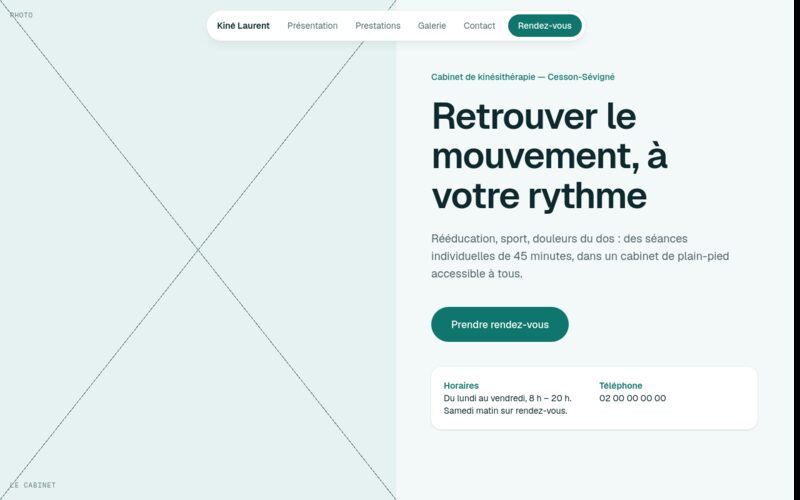
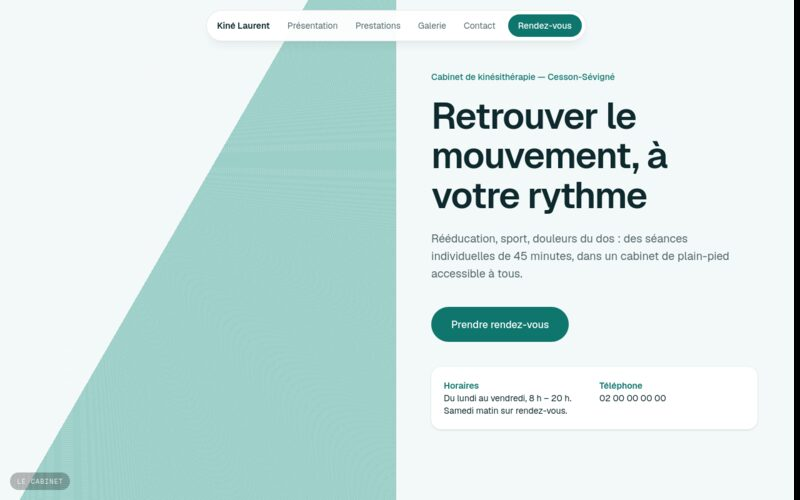
Exemples : visuels d'ambiance à la place des croix de maquette, prix sur les prestations (vides par défaut sur les sites clients)

diff --git a/src/components/templates/TemplateSite.tsx b/src/components/templates/TemplateSite.tsx
@@ -10,15 +10,19 @@ type Props = {
   content: SiteContent;
   /** Site en ligne : les cadres sans photo restent neutres, sans légende de maquette. */
   bare?: boolean;
+  /** Page d'exemple : les cadres vides reçoivent un visuel d'ambiance au lieu de la croix de maquette. */
+  demo?: boolean;
 };
 
 /** Rend un site client à partir d'un modèle et de son contenu. */
-export default function TemplateSite({ template, content, bare = false }: Props) {
+export default function TemplateSite({ template, content, bare = false, demo = false }: Props) {
   const Layout = { aurore: Aurore, monolithe: Monolithe, pulse: Pulse, atelier: Atelier, cabinet: Cabinet, clarte: Clarte, ligne: Ligne }[template.id];
   return (
     <>
       <ScrollFX />
-      <Layout template={template} content={content} bare={bare} />
+      <div className={demo ? "demo-visuals" : undefined} data-demo={demo ? template.id : undefined}>
+        <Layout template={template} content={content} bare={bare} />
+      </div>
       <MobileActions c={content} />
     </>
   );
@@ -62,9 +66,9 @@ const gallery: PhotoKey[] = ["photo1", "photo2", "photo3"];
 
 function services(c: SiteContent) {
   return [
-    { title: c.s1Title, text: c.s1Text },
-    { title: c.s2Title, text: c.s2Text },
-    { title: c.s3Title, text: c.s3Text },
+    { title: c.s1Title, text: c.s1Text, price: c.s1Price },
+    { title: c.s2Title, text: c.s2Text, price: c.s2Price },
+    { title: c.s3Title, text: c.s3Text, price: c.s3Price },
   ];
 }
 
@@ -209,6 +213,7 @@ function Aurore({ template, content: c, bare }: Props) {
                 <span className="serif text-3xl italic text-[#ffd27a]">0{i + 1}</span>
                 <h3 className="serif text-4xl italic md:text-6xl">{s.title}</h3>
                 <p className="text-lg text-[#fff1dc]/75">{s.text}</p>
+                {s.price && <p className="mt-5 w-fit whitespace-nowrap rounded-full border border-current/25 px-3 py-1 text-sm font-semibold">{s.price}</p>}
               </article>
             ))}
           </div>
@@ -329,6 +334,7 @@ function Monolithe({ template, content: c, bare }: Props) {
                 <span className="text-sm text-[#ff5a1f]">0{i + 1}</span>
                 <h3 className="text-4xl font-black uppercase tracking-tighter md:col-span-2 md:text-5xl">{s.title}</h3>
                 <p className="self-end text-lg md:col-span-3">{s.text}</p>
+                {s.price && <p className="mt-5 w-fit whitespace-nowrap rounded-full border border-current/25 px-3 py-1 text-sm font-semibold">{s.price}</p>}
               </article>
             ))}
           </div>
@@ -460,6 +466,7 @@ function Pulse({ template, content: c, bare }: Props) {
                 <span className="text-sm font-medium text-[#ff3df2]">0{i + 1}</span>
                 <h3 className="mt-14 text-4xl font-black uppercase italic tracking-tighter text-[#c8ff4d]">{s.title}</h3>
                 <p className="mt-3 text-white/70">{s.text}</p>
+                {s.price && <p className="mt-5 w-fit whitespace-nowrap rounded-full border border-current/25 px-3 py-1 text-sm font-semibold">{s.price}</p>}
               </article>
             ))}
           </div>
@@ -567,6 +574,7 @@ function Atelier({ template, content: c, bare }: Props) {
                 <span className="serif text-4xl text-[#c98a9a]">{i + 1}.</span>
                 <h3 className="serif mt-8 text-4xl">{s.title}</h3>
                 <p className="mt-3 text-[#2a2420]/70">{s.text}</p>
+                {s.price && <p className="mt-5 w-fit whitespace-nowrap rounded-full border border-current/25 px-3 py-1 text-sm font-semibold">{s.price}</p>}
               </article>
             ))}
           </div>
@@ -674,6 +682,7 @@ function Cabinet({ template, content: c, bare }: Props) {
                 <span className="serif text-3xl text-[#b08d57]">{["I", "II", "III"][i]}.</span>
                 <h3 className="serif text-3xl">{s.title}</h3>
                 <p className="text-[#14213d]/75">{s.text}</p>
+                {s.price && <p className="mt-5 w-fit whitespace-nowrap rounded-full border border-current/25 px-3 py-1 text-sm font-semibold">{s.price}</p>}
               </li>
             ))}
           </ol>
@@ -735,7 +744,11 @@ function Clarte({ template, content: c, bare }: Props) {
 
       <main>
         <section className="grid min-h-dvh md:grid-cols-2">
-          <Photo src={c.photoHero} label={L.photoHero} bare={bare} className="min-h-[50vh] md:min-h-full" />
+          <div className="relative min-h-[50vh]">
+            <div className="absolute inset-0">
+              <Photo src={c.photoHero} label={L.photoHero} bare={bare} className="size-full" />
+            </div>
+          </div>
           <div className="flex flex-col justify-center bg-[#f3f8f8] px-6 py-24 md:px-14">
             <p className="rise text-sm font-medium text-[#0f766e]">{c.kicker}</p>
             <h1 className="rise rise-1 mt-5 text-[clamp(2.4rem,4.6vw,4rem)] font-semibold leading-[1.08] tracking-tight">{c.heroTitle}</h1>
@@ -769,6 +782,7 @@ function Clarte({ template, content: c, bare }: Props) {
                 <span className="grid size-11 place-items-center rounded-2xl bg-white font-semibold text-[#0f766e] shadow-sm">{i + 1}</span>
                 <h3 className="mt-6 text-2xl font-semibold">{s.title}</h3>
                 <p className="mt-2 text-[#0f2a2e]/70">{s.text}</p>
+                {s.price && <p className="mt-5 w-fit whitespace-nowrap rounded-full border border-current/25 px-3 py-1 text-sm font-semibold">{s.price}</p>}
               </article>
             ))}
           </div>
@@ -877,6 +891,7 @@ function Ligne({ template, content: c, bare }: Props) {
                 <span className="text-xs uppercase tracking-[0.3em] text-[#8a8a8a]">0{i + 1}</span>
                 <h3 className="mt-6 text-3xl font-medium tracking-tight">{s.title}</h3>
                 <p className="mt-3 text-[#111]/70">{s.text}</p>
+                {s.price && <p className="mt-5 w-fit whitespace-nowrap rounded-full border border-current/25 px-3 py-1 text-sm font-semibold">{s.price}</p>}
               </article>
             ))}
           </div>

diff --git a/src/lib/templates.ts b/src/lib/templates.ts
@@ -15,6 +15,10 @@ export type SiteContent = {
   s2Text: string;
   s3Title: string;
   s3Text: string;
+  /** Prix ou tarif indicatif de chaque prestation (« dès 25 € », « sur devis »…) ; vide : non affiché. */
+  s1Price: string;
+  s2Price: string;
+  s3Price: string;
   quote: string;
   quoteAuthor: string;
   email: string;
@@ -44,6 +48,9 @@ export const contentFields: { key: keyof SiteContent; label: string; group: stri
   { key: "s2Text", label: "Bloc 2 — texte", group: "Prestations", long: true, max: 300 },
   { key: "s3Title", label: "Bloc 3 — titre", group: "Prestations", max: 60 },
   { key: "s3Text", label: "Bloc 3 — texte", group: "Prestations", long: true, max: 300 },
+  { key: "s1Price", label: "Bloc 1 — prix", group: "Prestations", max: 40 },
+  { key: "s2Price", label: "Bloc 2 — prix", group: "Prestations", max: 40 },
+  { key: "s3Price", label: "Bloc 3 — prix", group: "Prestations", max: 40 },
   { key: "quote", label: "Citation / avis", group: "Témoignage", long: true, max: 300 },
   { key: "quoteAuthor", label: "Auteur de la citation", group: "Témoignage", max: 80 },
   { key: "email", label: "E-mail de contact", group: "Contact", max: 120 },
@@ -114,6 +121,9 @@ export const templates: TemplateDef[] = [
       s2Text: "Cinq temps autour de la braise, avec un accord de vins nature.",
       s3Title: "La table d'hôtes",
       s3Text: "Douze couverts face à la cuisine, pour vos soirées privées.",
+      s1Price: "Menu 32 €",
+      s2Price: "Menu 68 €",
+      s3Price: "Sur réservation",
       quote: "On vient pour le feu. On revient pour le silence qui suit la première bouchée.",
       quoteAuthor: "Un habitué",
       email: "bonjour@maison-aurore.example",
@@ -150,6 +160,9 @@ export const templates: TemplateDef[] = [
       s2Text: "Diagnostic, isolation, redistribution des volumes.",
       s3Title: "Suivi de chantier",
       s3Text: "Un seul interlocuteur, du premier coup de pioche à la remise des clés.",
+      s1Price: "Sur devis",
+      s2Price: "Sur devis",
+      s3Price: "Visite offerte",
       quote: "Ils ont enlevé tout ce qui était en trop. Il est resté notre maison.",
       quoteAuthor: "Claire et Julien, Annecy",
       email: "contact@atelier-monolithe.example",
@@ -185,6 +198,9 @@ export const templates: TemplateDef[] = [
       s2Text: "Fractionné et endurance, en salle ou en extérieur.",
       s3Title: "Nutrition",
       s3Text: "Des repères simples, adaptés à votre quotidien.",
+      s1Price: "Dès 15 € la séance",
+      s2Price: "Dès 59 € / mois",
+      s3Price: "Essai offert",
       quote: "Huit kilos en moins, et surtout l'envie d'y retourner.",
       quoteAuthor: "Mehdi, 34 ans",
       email: "go@pulse-coaching.example",
@@ -221,6 +237,9 @@ export const templates: TemplateDef[] = [
       s2Text: "Initiation au tour, le samedi, par groupes de quatre.",
       s3Title: "Sur commande",
       s3Text: "Services complets pour restaurants et listes de mariage.",
+      s1Price: "Dès 18 €",
+      s2Price: "Dès 35 €",
+      s3Price: "Sur devis",
       quote: "Mon café du matin n'a plus le même goût. Vraiment.",
       quoteAuthor: "Lucie, cliente depuis 2022",
       email: "bonjour@atelier-nacre.example",
@@ -256,6 +275,9 @@ export const templates: TemplateDef[] = [
       s2Text: "Recouvrement, litiges avec un fournisseur ou un client : négociation d'abord, tribunal si nécessaire.",
       s3Title: "Droit social",
       s3Text: "Embauche, rupture, contrôle : sécurisez vos décisions avant de les prendre.",
+      s1Price: "Forfait dès 450 €",
+      s2Price: "Honoraires annoncés",
+      s3Price: "1re consultation 90 €",
       quote: "Des réponses claires, des délais tenus. Exactement ce qu'on attend d'un avocat.",
       quoteAuthor: "Dirigeante d'une PME de 40 salariés",
       email: "contact@cabinet-delorme.example",
@@ -291,6 +313,9 @@ export const templates: TemplateDef[] = [
       s2Text: "Prévention des blessures, reprise après une pause, préparation d'une compétition.",
       s3Title: "Dos et posture",
       s3Text: "Lombalgies, cervicalgies, travail de bureau : soulager et prévenir.",
+      s1Price: "Remboursé",
+      s2Price: "Dès 25 €",
+      s3Price: "Dès 25 €",
       quote: "Un suivi sérieux et des explications à chaque séance. Je sais enfin ce que je fais et pourquoi.",
       quoteAuthor: "Une patiente",
       email: "cabinet@kine-laurent.example",
@@ -326,6 +351,9 @@ export const templates: TemplateDef[] = [
       s2Text: "Coordination des artisans et suivi du chantier jusqu'à la remise des clés.",
       s3Title: "Conseil",
       s3Text: "Une visite de deux heures pour repenser une pièce, avec un plan d'action écrit.",
+      s1Price: "Dès 1 500 €",
+      s2Price: "Sur devis",
+      s3Price: "Visite 180 €",
       quote: "Ils ont compris en une visite ce que nous cherchions depuis des mois.",
       quoteAuthor: "Claire et Thomas, rénovation d'une longère",
       email: "bonjour@studio-morel.example",
@@ -349,6 +377,8 @@ export function getTemplate(id: string | null | undefined): TemplateDef | undefi
 }
 
 /** Fusionne un contenu partiel (JSON stocké) avec les valeurs par défaut du modèle. */
+const PRICE_KEYS = ["s1Price", "s2Price", "s3Price"] as const;
+
 export function resolveContent(template: TemplateDef, raw: string | Partial<SiteContent> | null): SiteContent {
   let parsed: Partial<SiteContent> = {};
   if (typeof raw === "string") {
@@ -361,6 +391,8 @@ export function resolveContent(template: TemplateDef, raw: string | Partial<Site
     parsed = raw;
   }
   const out = { ...template.content };
+  // Les prix des exemples ne doivent jamais apparaître sur le site d'un client : vides tant qu'il ne les a pas saisis.
+  for (const k of PRICE_KEYS) out[k] = "";
   for (const f of contentFields) {
     const v = parsed[f.key];
     if (typeof v === "string") out[f.key] = v.slice(0, f.max);

diff --git a/src/app/globals.css b/src/app/globals.css
@@ -643,3 +643,66 @@ html[data-mail-selecting] .mail-check { opacity: 1; }
   border: 1px solid color-mix(in srgb, var(--h) 32%, transparent);
 }
 .dot-h { width: 0.55rem; height: 0.55rem; border-radius: 50%; background: var(--h); flex-shrink: 0; }
+
+/* Pages d'exemple : visuels d'ambiance à la place des croix de maquette (trois variantes par exemple). */
+.demo-visuals .photo-empty {
+  opacity: 1;
+  color: rgb(255 255 255 / 0.85);
+  justify-content: flex-end;
+  background-image: var(--demo-0);
+  background-size: cover;
+}
+.demo-visuals .photo-empty[data-variant="1"] { background-image: var(--demo-1); }
+.demo-visuals .photo-empty[data-variant="2"] { background-image: var(--demo-2); }
+.demo-visuals .photo-empty > span:first-child { display: none; }
+.demo-visuals .photo-empty > span:last-child {
+  align-self: flex-start;
+  border-radius: 999px;
+  padding: 0.35rem 0.7rem;
+  background: rgb(0 0 0 / 0.28);
+  backdrop-filter: blur(6px);
+}
+.demo-visuals .photo-empty::after {
+  content: "";
+  position: absolute;
+  inset: 0;
+  pointer-events: none;
+  opacity: 0.18;
+  mix-blend-mode: overlay;
+  background-image: repeating-radial-gradient(circle at 17% 32%, #fff 0 0.6px, transparent 0.6px 3px);
+}
+[data-demo="aurore"] {
+  --demo-0: radial-gradient(circle at 30% 75%, #ff9b54 0, #b4481a 28%, transparent 55%), radial-gradient(circle at 75% 20%, #ffd27a80 0, transparent 40%), linear-gradient(160deg, #3a1d0e, #140a06);
+  --demo-1: radial-gradient(ellipse at 50% 110%, #ffd27a 0, #c2541c 30%, transparent 65%), linear-gradient(180deg, #24120a, #4a2412);
+  --demo-2: radial-gradient(circle at 70% 60%, #e8a15a 0, transparent 45%), radial-gradient(circle at 20% 20%, #7a2e10 0, transparent 50%), linear-gradient(120deg, #1c0b04, #3d1d0c);
+}
+[data-demo="monolithe"] {
+  --demo-0: linear-gradient(115deg, transparent 48%, #ff5a1f 48% 52%, transparent 52%), linear-gradient(160deg, #cfc8ba, #8f887a);
+  --demo-1: linear-gradient(180deg, #e7e2d8 0 55%, #b9b1a2 55%), linear-gradient(90deg, #111214 0 30%, transparent 30%);
+  --demo-2: repeating-linear-gradient(90deg, #bdb5a6 0 18px, #a59d8d 18px 20px), linear-gradient(#cfc8ba, #8f887a);
+}
+[data-demo="pulse"] {
+  --demo-0: radial-gradient(circle at 70% 30%, #ff3df2 0, transparent 45%), radial-gradient(circle at 25% 80%, #c8ff4d 0, transparent 40%), linear-gradient(160deg, #1a1630, #07060d);
+  --demo-1: linear-gradient(135deg, #c8ff4d 0 18%, transparent 18%), radial-gradient(circle at 60% 50%, #3b2bff 0, transparent 60%), linear-gradient(#0e0d16, #07060d);
+  --demo-2: radial-gradient(ellipse at 50% 100%, #ff3df2aa 0, transparent 60%), repeating-linear-gradient(0deg, #ffffff10 0 2px, transparent 2px 14px), linear-gradient(#14131f, #07060d);
+}
+[data-demo="atelier"] {
+  --demo-0: radial-gradient(circle at 35% 40%, #f2b8c6 0, transparent 45%), radial-gradient(circle at 70% 75%, #e9d8c4 0, transparent 50%), linear-gradient(160deg, #efe5dc, #d9c7bb);
+  --demo-1: radial-gradient(ellipse at 50% 70%, #c98a9a 0, #e6c9c0 40%, transparent 70%), linear-gradient(#f6f1ec, #e2d3c8);
+  --demo-2: radial-gradient(circle at 60% 35%, #fff 0, transparent 35%), linear-gradient(140deg, #d7c0b0, #b99a8c);
+}
+[data-demo="cabinet"] {
+  --demo-0: linear-gradient(90deg, transparent 0 62%, #b08d5733 62% 63%, transparent 63%), linear-gradient(160deg, #2a3a5e, #14213d);
+  --demo-1: radial-gradient(circle at 75% 25%, #f7f6f255 0, transparent 40%), linear-gradient(180deg, #8a7a62, #3a3428);
+  --demo-2: repeating-linear-gradient(90deg, #d8d2c4 0 40px, #cfc8b8 40px 42px), linear-gradient(#e7e4da, #c9c2b2);
+}
+[data-demo="clarte"] {
+  --demo-0: radial-gradient(circle at 30% 30%, #ffffff 0, transparent 40%), linear-gradient(150deg, #bfe3df, #5fb3a9);
+  --demo-1: radial-gradient(circle at 70% 60%, #0f766e55 0, transparent 50%), linear-gradient(180deg, #e6f2f1, #b7d9d5);
+  --demo-2: linear-gradient(120deg, #f3f8f8 0 45%, #9ccfc8 45%), linear-gradient(#e6f2f1, #e6f2f1);
+}
+[data-demo="ligne"] {
+  --demo-0: linear-gradient(105deg, transparent 0 40%, #ffffff40 40% 55%, transparent 55%), linear-gradient(160deg, #a8a29a, #3c3a37);
+  --demo-1: linear-gradient(180deg, #ecebe8 0 60%, #8f8a83 60%), linear-gradient(#ecebe8, #8f8a83);
+  --demo-2: radial-gradient(ellipse at 30% 40%, #f4f2ee 0, transparent 55%), linear-gradient(140deg, #c9c4bc, #6b6760);
+}

diff --git a/src/app/exemples/[id]/page.tsx b/src/app/exemples/[id]/page.tsx
@@ -20,7 +20,7 @@ export default async function TemplateDemo({ params }: Props) {
 
   return (
     <>
-      <TemplateSite template={template} content={template.content} />
+      <TemplateSite template={template} content={template.content} demo />
       <aside
         aria-label="Démonstration"
         className="zone-dark fixed bottom-20 left-1/2 md:bottom-4 z-50 flex -translate-x-1/2 items-center gap-2 rounded-full border border-line p-1.5 pl-5 text-sm shadow-2xl"

diff --git a/src/components/Photo.tsx b/src/components/Photo.tsx
@@ -21,7 +21,7 @@ export default function Photo({
         // eslint-disable-next-line @next/next/no-img-element
         <img src={src} alt={label} loading="lazy" decoding="async" />
       ) : (
-        <div className="photo-empty" aria-hidden="true">
+        <div className="photo-empty" data-variant={[...label].reduce((n, ch) => n + ch.charCodeAt(0), 0) % 3} aria-hidden="true">
           {!bare && (
             <>
               <span>Photo</span>
